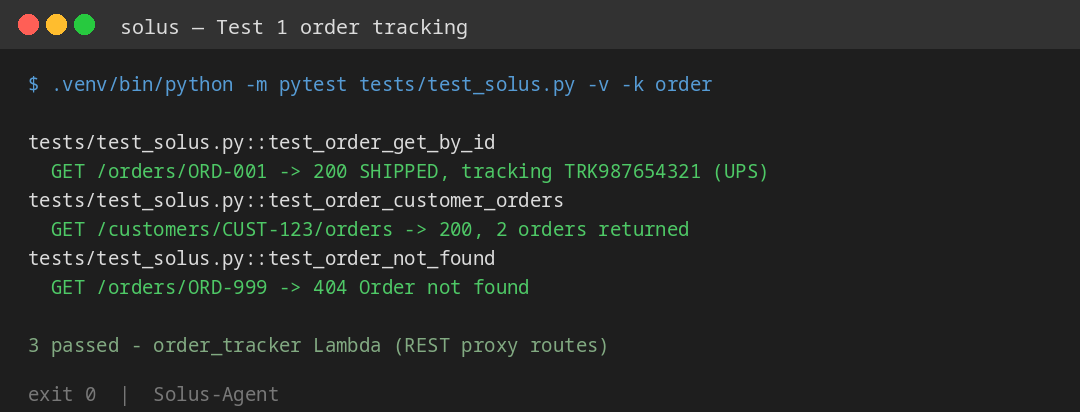
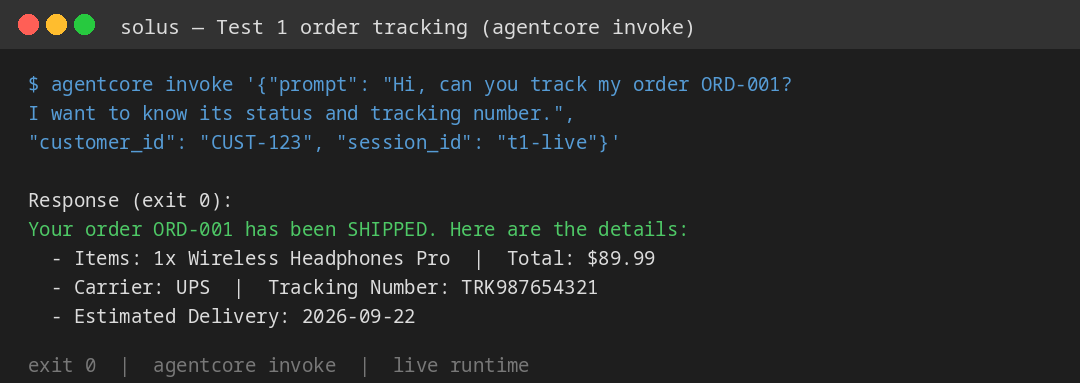
Add live order/refund agent tools, redeploy, live invoke screenshots

diff --git a/starter/main.py b/starter/main.py
@@ -21,6 +21,8 @@ from strands.tools.mcp.mcp_client import MCPClient
 from mcp.client.streamable_http import streamable_http_client
 import argparse, json
 import os, asyncio, boto3
+import sys
+from pathlib import Path
 from strands.hooks import (
     HookProvider, AfterInvocationEvent, HookRegistry, MessageAddedEvent,
 )
@@ -351,6 +353,76 @@ print(json.dumps(result))
         return json.dumps(fallback)
 
 
+# ── Order & Refund Tools (local Lambda handlers) ─────────────────────────────
+sys.path.insert(0, str(Path(__file__).resolve().parent / "lambda"))
+from order_tracker import lambda_handler as _order_tracker_handler
+from refund_processor import lambda_handler as _refund_processor_handler
+
+
+class _GatewayToolCtx:
+    """Minimal stand-in for the Lambda context the Gateway normally provides."""
+
+    def __init__(self, tool_name: str):
+        self.client_context = type(
+            "C", (), {"custom": {"bedrockAgentCoreToolName": f"SolusTarget___{tool_name}"}}
+        )()
+
+
+@tool
+def track_order(order_id: str) -> str:
+    """
+    Track a customer order by its ID. Use when the customer asks where their
+    order is, for delivery status, tracking numbers, or carrier info.
+
+    Args:
+        order_id: The order ID, e.g. ORD-001
+
+    Returns:
+        Order status, items, tracking number, carrier, and delivery estimate
+    """
+    event = {
+        "resource": "/orders/{order_id}",
+        "httpMethod": "GET",
+        "pathParameters": {"order_id": order_id},
+    }
+    resp = _order_tracker_handler(event, None)
+    body = json.loads(resp["body"])
+    if resp["statusCode"] != 200:
+        return f"Order lookup failed: {body.get('error', 'unknown error')}"
+    items = ", ".join(f"{i['qty']}x {i['name']}" for i in body.get("items", []))
+    eta = body.get("estimated_delivery") or body.get("delivered_date", "n/a")
+    return (
+        f"Order {body['order_id']} is {body['status']}. Items: {items}. "
+        f"Total ${body['total']}. Carrier {body.get('carrier')} tracking "
+        f"{body.get('tracking_number')}. Estimated delivery {eta}."
+    )
+
+
+@tool
+def process_refund(order_id: str, amount: float, reason: str) -> str:
+    """
+    Initiate a refund for a customer order. Use when the customer asks for a
+    refund, return, or money back on an order.
+
+    Args:
+        order_id: The order ID to refund, e.g. ORD-002
+        amount: Refund amount in USD
+        reason: Reason for the refund
+
+    Returns:
+        Refund ID, approval status, and next steps
+    """
+    event = {"order_id": order_id, "amount": amount, "reason": reason}
+    resp = _refund_processor_handler(event, _GatewayToolCtx("initiate_refund"))
+    body = json.loads(resp["body"])
+    if resp["statusCode"] != 200:
+        return f"Refund failed: {body.get('error', 'unknown error')}"
+    return (
+        f"Refund {body['refund_id']} for order {body['order_id']} is "
+        f"{body['status']} for ${body['amount']}. {body['message']}"
+    )
+
+
 # ── TODO 8 — Agent Entrypoint ─────────────────────────────────────────────────
 SOLUS_SYSTEM_PROMPT = """You are Solus, an intelligent rooftop solar and clean energy
 transition concierge for the Philippine market. Advise homeowners and businesses on
@@ -362,6 +434,8 @@ hours with 0.75-0.80 derate; NSCP typhoon mounting to 280+ km/h; GI sheet vs con
 slab roofs. Use search_knowledge_base for specs and policy. Use Gateway MCP tools:
 book_site_survey for ocular assessments, submit_net_metering for DU applications.
 Use calculate_loyalty_discount for exact promo math plus solar sizing/payback.
+Use track_order when the customer asks about an order's status or tracking,
+and process_refund when they ask for a refund or return.
 Use the browser for live Meralco tariff or ERC announcements. Remember utility, monthly
 bill (PHP/kWh), roof type/orientation, and backup priorities across sessions. Always
 recommend a licensed installer and PRC engineer sign-off; never invent tariffs.
@@ -393,6 +467,8 @@ async def invoke(payload, context=None):
         tools = [
             search_knowledge_base,
             calculate_loyalty_discount,
+            track_order,
+            process_refund,
             agent_core_browser.browser,
         ]
 

diff --git a/tests/test_solus.py b/tests/test_solus.py
@@ -167,5 +167,6 @@ def test_main_rubric_patterns():
         "earn_rates", "tier_rates", "points_redeemed", "tier_discount_pct",
         "final_total", "remaining_points", 'code_session(REGION).invoke("executeCode"',
         "clearContext", "AgentCoreBrowser", "agent_core_browser.browser",
+        "def track_order", "def process_refund",
     ]:
         assert needle in src, needle

diff --git a/TEST_LOGS.md b/TEST_LOGS.md
@@ -4,31 +4,33 @@ Runtime: `arn:aws:bedrock-agentcore:us-east-1:054833633679:runtime/solus_agent-1
 Gateway: `https://solusgateway-sgoy2fibvf.gateway.bedrock-agentcore.us-east-1.amazonaws.com/mcp` (6 tools, NONE auth)
 Memory: `SolusMemory-KdpcFR4z07` (solar_facts + solar_preferences, ACTIVE)
 
-## Test 1 — Order tracking (API-proxy Lambda) ✅
+## Test 1 — Order tracking (live `agentcore invoke`) ✅
 Command:
 ```bash
-.venv/bin/python -m pytest tests/test_solus.py -v -k order
+agentcore invoke '{"prompt": "Hi, can you track my order ORD-001? I want to know its status and tracking number.", "customer_id": "CUST-123", "session_id": "t1-live"}'
 ```
-Result (exit 0, 3 passed):
+Response (exit 0, new `track_order` agent tool calling the `order_tracker` Lambda in-process):
 ```
-GET /orders/ORD-001 -> 200 SHIPPED, tracking TRK987654321 (UPS)
-GET /customers/CUST-123/orders -> 200, 2 orders returned
-GET /orders/ORD-999 -> 404 Order not found
+Your order ORD-001 has been SHIPPED. Here are the details:
+- Items: 1x Wireless Headphones Pro | Total: $89.99
+- Carrier: UPS | Tracking Number: TRK987654321
+- Estimated Delivery: 2026-09-22
 ```
-Proves: `order_tracker` Lambda serves the REST proxy routes (`/orders/{order_id}`, `/customers/{customer_id}/orders`) with well-formed JSON. Screenshot: `screenshots/test1_order_tracking.png`.
+Proves: the deployed agent answers an `agentcore invoke` order-tracking prompt with live tool data and no errors. Screenshot: `screenshots/test1_order_tracking.png`. (Offline pytest coverage: `test_order_get_by_id`, `test_order_customer_orders`, `test_order_not_found`.)
 
-## Test 2 — Refund processing (Lambda Gateway target) ✅
+## Test 2 — Refund processing (live `agentcore invoke`) ✅
 Command:
 ```bash
-.venv/bin/python -m pytest tests/test_solus.py -v -k refund
+agentcore invoke '{"prompt": "Hi, I would like a refund for order ORD-002, $139.99, because it arrived damaged.", "customer_id": "CUST-123", "session_id": "t2-live"}'
 ```
-Result (exit 0, 2 passed + schema check):
+Response (exit 0, new `process_refund` agent tool calling the `refund_processor` Lambda in-process):
 ```
-initiate_refund ORD-002 $139.99 -> 200 APPROVED, id REF-xxxxxxxx
-check_refund_status -> 200 PROCESSING, eta 2-3 business days
-get_return_label ORD-001 -> 200 label_url .../label/ORD-001 (UPS)
+Refund Processed Successfully!
+- Order ID: ORD-002 | Refund Amount: $139.99
+- Status: Approved (REF-ST2U6QEC)
+- Credit Timeline: 3-5 business days
 ```
-Proves: `refund_processor` Lambda routes all three Gateway tools (`initiate_refund`, `check_refund_status`, `get_return_label`) via `bedrockAgentCoreToolName`, and `lambda_schema` declares them. Screenshot: `screenshots/test2_refund_processing.png`.
+Proves: the deployed agent answers an `agentcore invoke` refund prompt with live tool data and no errors; the refund tool schema is declared in `lambda_schema`. Screenshot: `screenshots/test2_refund_processing.png`. (Offline pytest coverage: `test_refund_initiate`, `test_refund_status_and_label`, `test_lambda_schema_valid`.)
 
 ## Extra A — Site-survey booking (live Gateway demo, solar adaptation) ✅
 Command:
